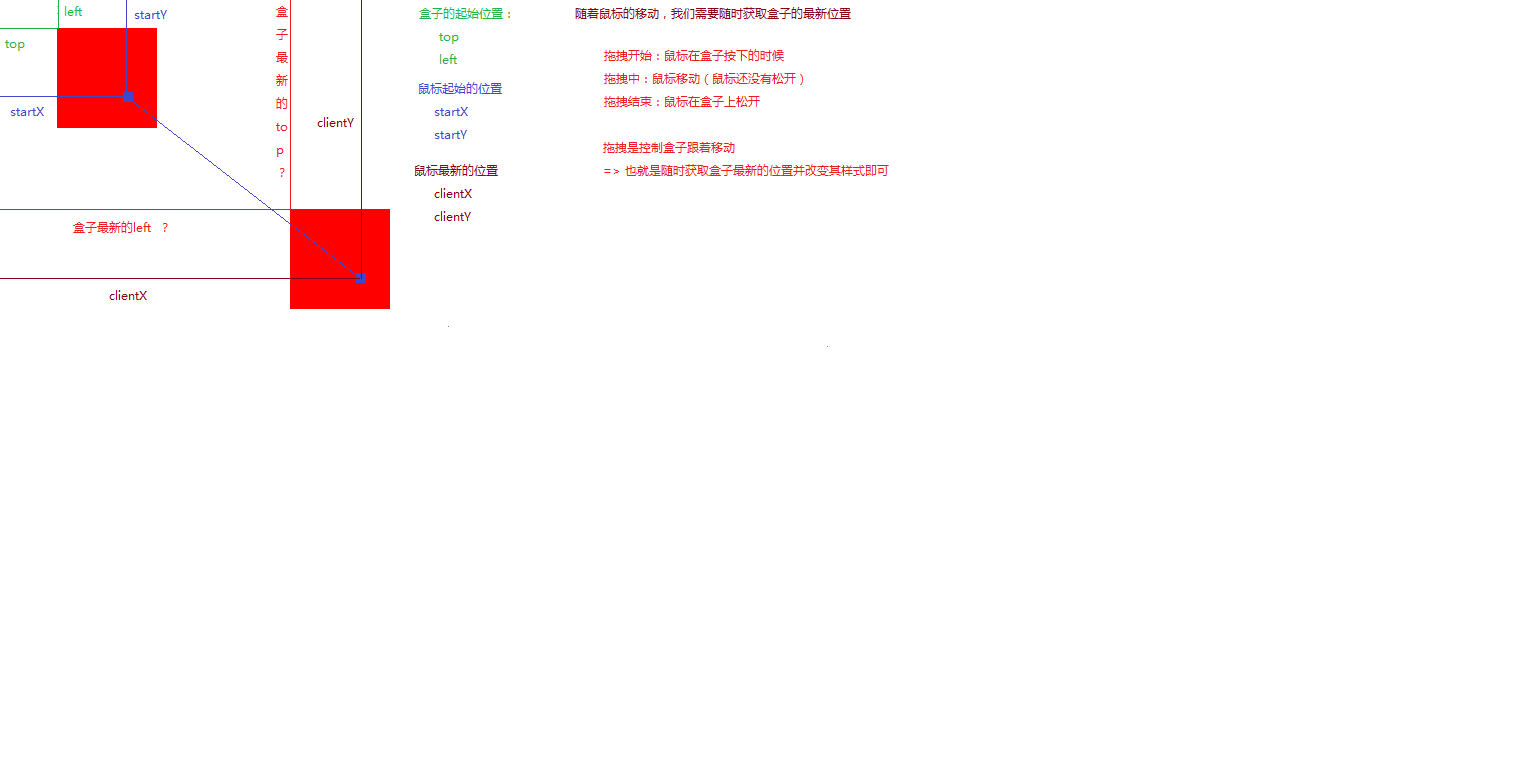
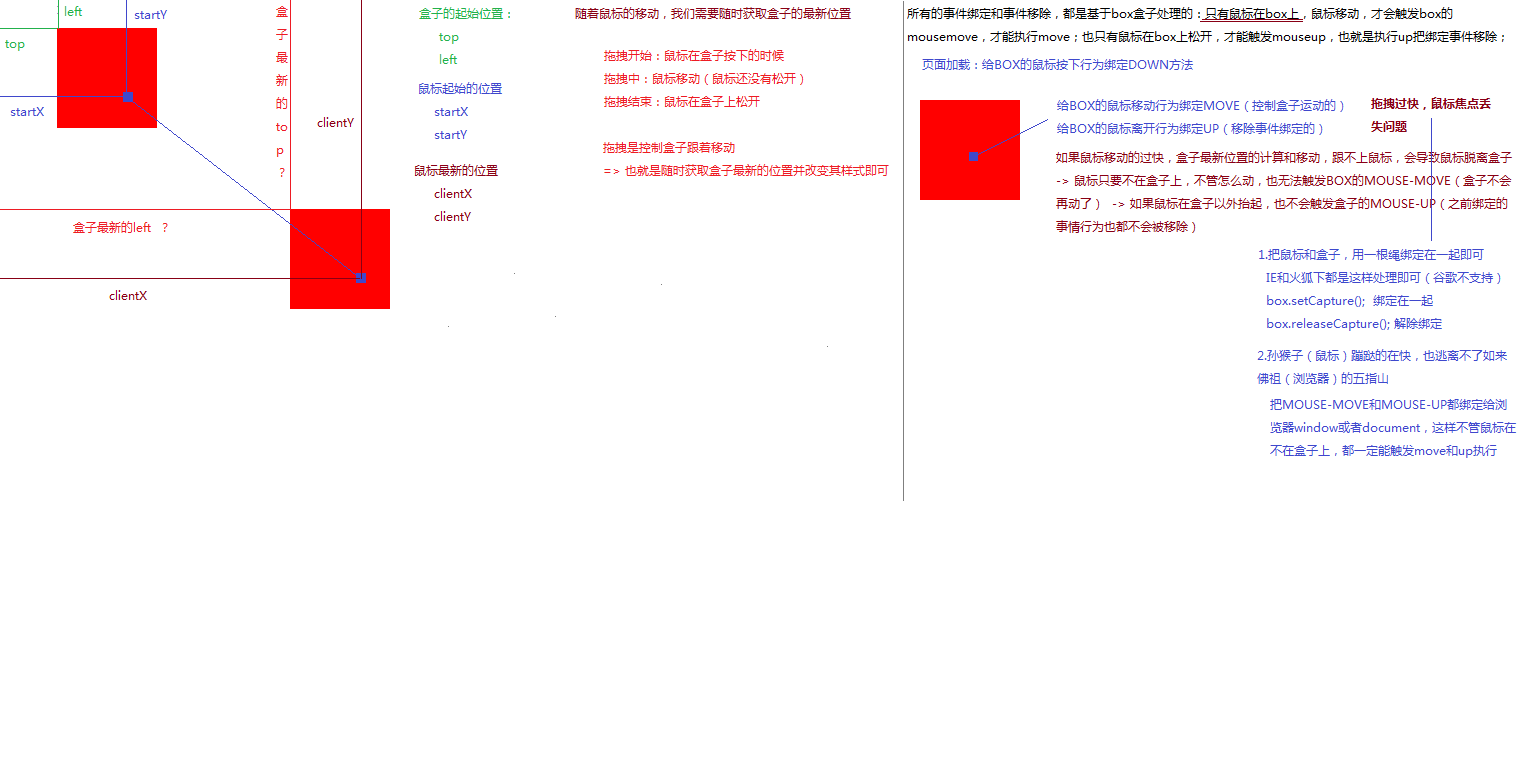
事件

Changed region(s): [[0.5883, 0.124, 1.0, 0.3101], [0.836, 0.3101, 1.0, 0.5891], [0.5883, 0.0, 0.9908, 0.093]]

diff --git a/0430/2-拖拽.html b/0430/2-拖拽.html
@@ -31,7 +31,100 @@
 	<div class="box"></div>
 
 	<!-- IMPORT JS -->
-	
+	<script>
+		/* let box = document.querySelector('.box'),
+			minL = 0,
+			maxL = document.documentElement.clientWidth - box.offsetWidth,
+			minT = 0,
+			maxT = document.documentElement.clientHeight - box.offsetHeight;
+
+		// 鼠标按下
+		function down(ev) {
+			// this => box  
+			// 拖拽开始的时候：记录盒子的起始位置和鼠标按下的起始位置（把信息存储到THIS当前盒子的自定义属性上，这样在其它方法中，只要THIS是当前操作的盒子，基于自定义属性即可获取到这些值）
+			this.startLeft = this.offsetLeft;
+			this.startTop = this.offsetTop;
+			this.startX = ev.pageX;
+			this.startY = ev.pageY;
+
+			this.addEventListener('mousemove', move);
+			this.addEventListener('mouseup', up);
+			// 针对IE和火狐的
+			this.setCapture();
+		}
+
+		// 鼠标滑动
+		function move(ev) {
+			// this => box
+			// 拖拽中：获取鼠标最新的位置，然后用最新的位置-鼠标起始的位置，得到鼠标的偏移，而鼠标偏移多少，也是盒子要移动的距离；盒子最新的位置=鼠标当前位置-鼠标起始位置+盒子的起始位置；
+			let curLeft = ev.pageX - this.startX + this.startLeft,
+				curTop = ev.pageY - this.startY + this.startTop;
+			// 做一个边界判断
+			curLeft = curLeft < minL ? minL : (curLeft > maxL ? maxL : curLeft);
+			curTop = curTop < minT ? minT : (curTop > maxT ? maxT : curTop);
+			// 设置样式（盒子运动到这个位置）
+			this.style.left = curLeft + 'px';
+			this.style.top = curTop + 'px';
+		}
+
+		// 鼠标抬起
+		function up(ev) {
+			// this => box
+			this.removeEventListener('mousemove', move);
+			this.removeEventListener('mouseup', up);
+			this.releaseCapture();
+		}
+
+		// 只有鼠标按下的时候，拖拽才开始（在DOWN方法中在给MOUSE-MOVE绑定方法），同理当鼠标抬起的时候，拖拽结束，此时我们应该移除MOVE方法的绑定；
+		box.addEventListener('mousedown', down); */
+	</script>
+
+
+	<script>
+		let box = document.querySelector('.box'),
+			minL = 0,
+			maxL = document.documentElement.clientWidth - box.offsetWidth,
+			minT = 0,
+			maxT = document.documentElement.clientHeight - box.offsetHeight;
+
+		box.addEventListener('mousedown', down);
+
+		// 鼠标按下
+		function down(ev) {
+			// this => box  
+			this.startLeft = this.offsetLeft;
+			this.startTop = this.offsetTop;
+			this.startX = ev.pageX;
+			this.startY = ev.pageY;
+
+			// 这样处理也有问题：this不在是之前的盒子，而是变成了window，但是我们需要在move中让this是当前的盒子（只有这样才能拿到信息）
+			// window.addEventListener('mousemove', move);
+			// window.addEventListener('mouseup', up);
+
+			// move.bind(this) 返回的是匿名函数，也就是绑定时候绑定的是匿名函数（为了后边能够移除绑定，我们需要把匿名函数存储起来）
+			this._MOVE = move.bind(this);
+			this._UP = up.bind(this);
+			window.addEventListener('mousemove', this._MOVE);
+			window.addEventListener('mouseup', this._UP);
+		}
+
+		// 鼠标滑动
+		function move(ev) {
+			// this => box
+			let curLeft = ev.pageX - this.startX + this.startLeft,
+				curTop = ev.pageY - this.startY + this.startTop;
+			curLeft = curLeft < minL ? minL : (curLeft > maxL ? maxL : curLeft);
+			curTop = curTop < minT ? minT : (curTop > maxT ? maxT : curTop);
+			this.style.left = curLeft + 'px';
+			this.style.top = curTop + 'px';
+		}
+
+		function up(ev) {
+			// this => box
+			window.removeEventListener('mousemove', this._MOVE);
+			window.removeEventListener('mouseup', this._UP);
+		}
+	</script>
 </body>
 
 </html>
